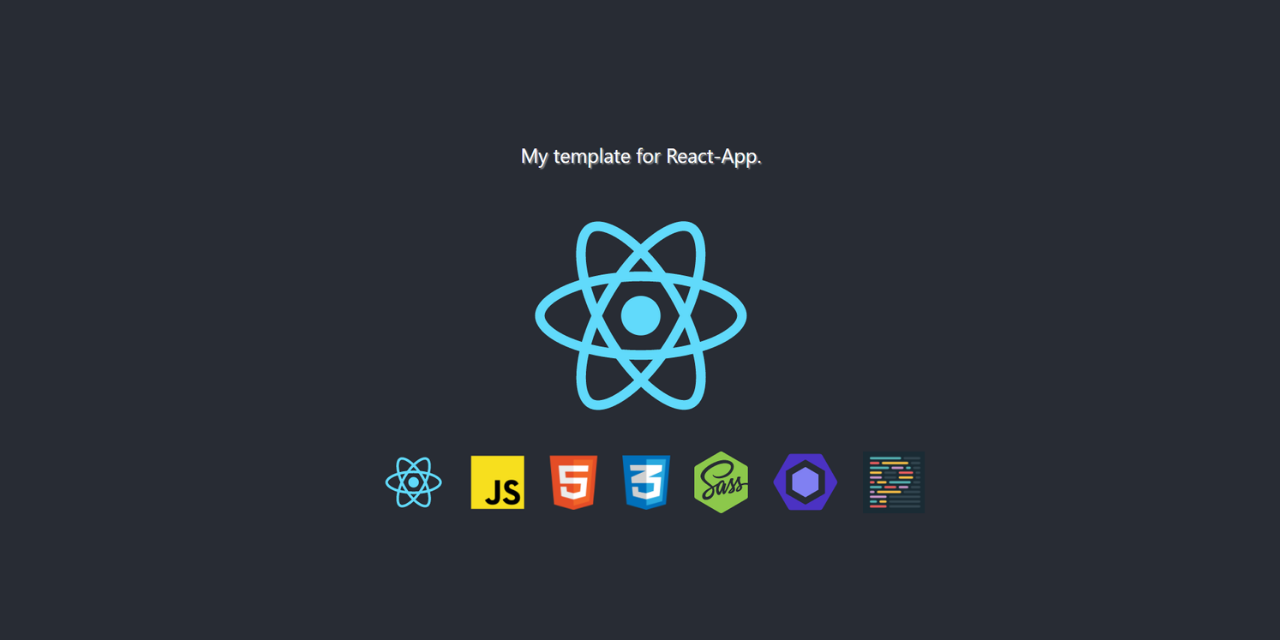
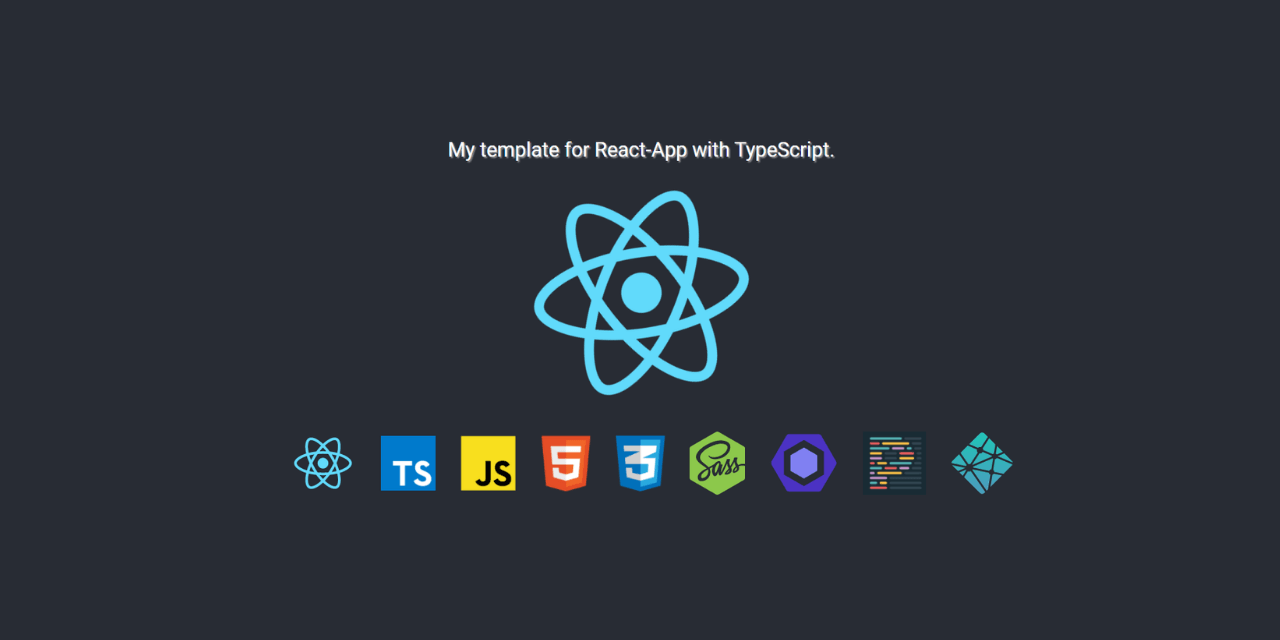
INITIAL COMMIT - TypeScript inside

Changed region(s): [[0.2188, 0.2188, 0.7188, 0.8125], [0.75, 0.6562, 0.8125, 0.7812]]

diff --git a/public/index.html b/public/index.html
@@ -7,11 +7,11 @@
     <meta name="theme-color" content="#000000" />
     <meta
       name="description"
-      content="My template create-react-app"
+      content="My template create-react-app with TypeScript"
     />
     <meta property="og:title" content="My template" />
-    <meta property="og:url" content="https://github.com/patryk-makarewicz/my-template-create-react-app/" />
-    <meta property="og:image" content="https://github.com/patryk-makarewicz/my-template-create-react-app/cover.png" />
+    <meta property="og:url" content="https://github.com/patryk-makarewicz/my-template-create-react-app-ts/" />
+    <meta property="og:image" content="https://github.com/patryk-makarewicz/my-template-create-react-app-ts/cover.png" />
     <!--
       manifest.json provides metadata used when your web app is installed on a
       user's mobile device or desktop. See https://developers.google.com/web/fundamentals/web-app-manifest/
@@ -26,7 +26,7 @@
       work correctly both with client-side routing and a non-root public URL.
       Learn how to configure a non-root public URL by running `npm run build`.
     -->
-    <title>My template React App</title>
+    <title>My template React App with TS</title>
   </head>
   <body>
     <noscript>You need to enable JavaScript to run this app.</noscript>

diff --git a/src/views/App.tsx b/src/views/App.tsx
@@ -1,9 +1,8 @@
 import React from 'react';
 
-import GlobalStyle from 'theme/GlobalStyle';
-
 import logo from '../assets/logo.svg';
 import react from '../assets/logo-react.svg';
+import ts from '../assets/logo-typescript.png';
 import js from '../assets/logo-js.png';
 import html from '../assets/logo-html5.png';
 import css from '../assets/logo-css3.png';
@@ -15,13 +14,13 @@ import './App.scss';
 
 const App = () => (
   <>
-    <GlobalStyle />
-    <div classNme="app">
+    <div className="app">
       <header className="app__header">
-        <p className="app__paragraph">My template for React-App.</p>
+        <p className="app__paragraph">My template for React-App with TypeScript.</p>
         <img src={logo} className="app__logo" alt="logo" />
         <div className="icon">
           <img src={react} className="icon__react" alt="logo React" title="React.js" />
+          <img src={ts} className="icon__ts" alt="logo TypeScript" title="TypeScript" />
           <img src={js} className="icon__js" alt="logo JavaScript" title="JavaScript" />
           <img src={html} className="icon__html" alt="logo Html" title="HTML5" />
           <img src={css} className="icon__css" alt="logo Css" title="CSS3" />

diff --git a/src/index.scss b/src/index.scss
@@ -1,0 +1,26 @@
+@import url('https://fonts.googleapis.com/css2?family=Roboto:wght@300;400;500;700&display=swap');
+
+*,
+*::before,
+*::after {
+  box-sizing: border-box;
+  -webkit-font-smoothing: antialiased;
+  -moz-osx-font-smoothing: grayscale;
+  margin: 0;
+  padding: 0;
+}
+
+body {
+  font-size: 16px;
+  font-family: 'Roboto', sans-serif;
+  background-color: white;
+  color: black;
+  margin: 0;
+  padding: 0;
+}
+
+:root {
+  --main-blue: #1976d2;
+  --gray: #939597;
+  --gray-dark: #808080;
+}

diff --git a/src/views/App.scss b/src/views/App.scss
@@ -49,6 +49,14 @@
       transform: scale(1.1);
     }
   }
+  &__ts {
+    height: 78px;
+    margin-right: 35px;
+    transition: transform 0.3s;
+    &:hover {
+      transform: scale(1.1);
+    }
+  }
   &__js {
     height: 80px;
     margin-right: 35px;

diff --git a/src/index.tsx b/src/index.tsx
@@ -3,6 +3,8 @@ import ReactDOM from 'react-dom';
 import App from './views/App';
 import reportWebVitals from './reportWebVitals';
 
+import './index.scss';
+
 ReactDOM.render(
   <React.StrictMode>
     <App />

diff --git a/src/react-app-env.d.ts b/src/react-app-env.d.ts
@@ -1,0 +1,1 @@
+/// <reference types="react-scripts" />

diff --git a/README.md b/README.md
@@ -2,7 +2,7 @@
 
 # General info
 
-IN CONSTUCTION - this will be eShop app with products from fake API.
+This is my template for create-react-app with typescript, eslint, prettier, husky, netlify.
 
 ## Getting Started with Create React App
 
